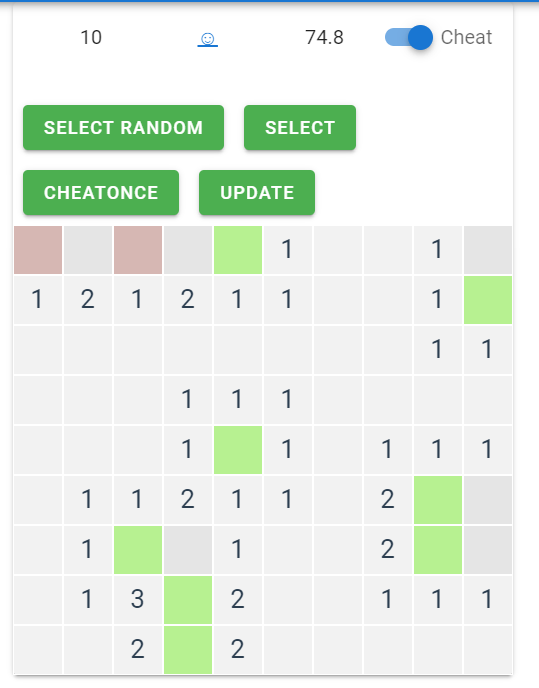
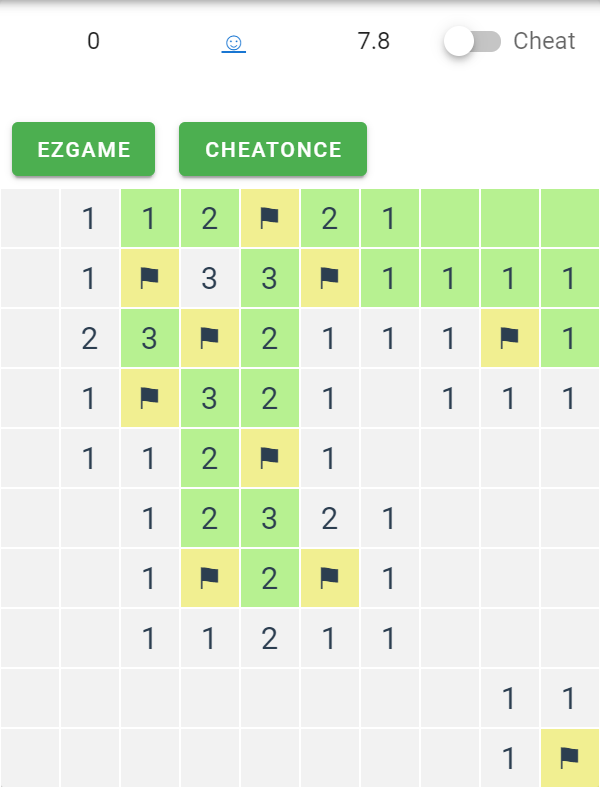
donee

diff --git a/mindswooper/src/components/MinesweeperGame.vue b/mindswooper/src/components/MinesweeperGame.vue
@@ -17,21 +17,31 @@
         v-model="cheat"
       ></v-switch>
     </div>
-    <v-btn color="success" class="ma-2" @click="select()"
+    <!-- <v-btn color="success" class="ma-2" @click="select()"
       >select next targets</v-btn
-    >
-    <v-btn color="success" class="ma-2" @click="selectNext = true"
-      >select one cell</v-btn
-    >
+    > -->
+    <v-row align="center">
+      <v-col class="d-flex" cols="12" sm="6">
+        <v-btn color="success" class="ma-2" @click="EzGame()">EZGame</v-btn>
+      </v-col>
+      <v-col>
+        <v-select
+          :items="[0, 1, 10, 100]"
+          v-model="delay"
+          label="Delay"
+        ></v-select>
+      </v-col>
+    </v-row>
+
     <v-btn
       color="success"
       class="ma-2"
       @click="cheatOnce(grid.find((cell) => cell.selected))"
       >cheatOnce</v-btn
     >
-    <v-btn color="success" class="ma-2" @click="updateAllCells()"
+    <!-- <v-btn color="success" class="ma-2" @click="updateAllCells()"
       >update all</v-btn
-    >
+    > -->
 
     <div class="minesweeper-grid" :style="getGridStyle()">
       <minesweeper-cell
@@ -80,11 +90,11 @@ export default Vue.extend({
     },
     rows: {
       type: Number,
-      default: 9,
+      default: 30,
     },
     bombs: {
       type: Number,
-      default: 10,
+      default: 55,
     },
   },
   data() {
@@ -98,6 +108,7 @@ export default Vue.extend({
       selected: [] as number[][],
       targetI: -1,
       flagTarget: false,
+      delay: 0,
     };
   },
   mounted() {
@@ -112,7 +123,61 @@ export default Vue.extend({
     },
   },
   methods: {
+    wait(ms: number) {
+      return new Promise((resolve) => setTimeout(resolve, ms));
+    },
+    async EzGame() {
+      let orig: cell[] = [];
+      while (!this.won) {
+        // find good game
+        console.log("Starting...");
+        this.initGrid();
+        orig = [];
+        let moves = 0;
+        this.finished = false;
+        // debugger
+
+        while (!this.finished) {
+          // find good moves
+          if (this.checkLost()) break;
+          this.cheatOnce();
+          if (this.selected.length && !orig.length) {
+            this.grid.forEach((cell: cell) => {
+              orig.push({
+                hasBomb: cell.hasBomb,
+                bombCount: cell.bombCount,
+                isOpen: cell.isOpen,
+                openNear: cell.openNear,
+                hasFlag: cell.hasFlag,
+                flaggedNear: cell.flaggedNear,
+                neighborhood: cell.neighborhood,
+                cheat: cell.cheat,
+                selected: cell.selected,
+                hiddenNeighborhood: cell.hiddenNeighborhood,
+                Index: cell.Index,
+              });
+            });
+          }
+          moves++;
+          if (this.delay) await this.wait(this.delay);
+        }
+        console.log("Got Finished game in", moves);
+      }
+
+      console.log("Finished");
+      console.log("Setting board");
+      // console.log(orig, this.grid, orig == this.grid)
+      this.grid = orig;
+
+      // ------------------------------------------------
+      // Reset
+      this.grid.forEach((cell: cell) => (cell.selected = 0));
+      this.finished = false;
+      this.won = false;
+    },
     updateAllCells() {
+      // console.log(this.selected, this.targetI);
+
       this.grid.forEach((cell: cell, i) => {
         let n = 0;
         this.getNeighborhood(cell).forEach((i) => {
@@ -159,9 +224,9 @@ export default Vue.extend({
         }
       });
 
-      // if (this.selected.length == 0){
-      //   this.pickRandom()
-      // }
+      if (this.selected.length == 0) {
+        this.pickRandom();
+      }
 
       // console.log(this.selected);
 
@@ -207,7 +272,7 @@ export default Vue.extend({
         let cell = this.grid[ii];
         // console.log("going through:", i, "neighbour", ii, "Open:", cell.isOpen, "Selected", cell.selected)
         if (!cell.isOpen && !cell.selected) {
-          this.selected.push([i, oneIfBomb]);
+          this.selected.push([ii, oneIfBomb]);
           cell.selected = 1 + oneIfBomb;
         }
       });
@@ -219,41 +284,45 @@ export default Vue.extend({
       });
     },
     cheatOnce() {
-      console.log("First", this.selected, this.targetI);
+      if (this.finished) {
+        console.warn("Alredy Finished!");
+        return -1;
+      }
+      // console.log("First", this.selected, this.targetI);
+      // -1 = no target
 
       if (this.targetI != -1) {
         let cell: cell = this.grid[this.targetI];
-        console.log("Goin for", cell, this.flagTarget)
+        // console.log("Goin for", cell, this.flagTarget);
 
         if (this.flagTarget) {
           if (!cell.hasFlag) {
-
-            console.log("addFlag", cell)
+            // console.log("addFlag", cell);
             this.addFlag(cell);
           }
         } else {
           if (cell.hasFlag) {
             console.error("Flag bad", cell);
           } else {
-            console.log("clickCell", cell)
-            this.clickCell(cell, cell.Index, true);
+            // console.log("clickCell", cell);
+            this.clickCell(cell, cell.Index, false);
           }
         }
       }
 
       this.updateAllCells();
 
-      console.log("Last", this.selected, this.targetI);
       this.selected = this.selected.filter(
-        (i: number[]) => this.grid[i[0]].isOpen
+        (i: number[]) => !this.grid[i[0]].isOpen && !this.grid[i[0]].hasFlag
       );
 
       if (this.selected.length) {
         this.targetI = this.selected[0][0];
-        this.flagTarget = !this.selected[0][1];
+        this.flagTarget = Boolean(this.selected[0][1]);
       } else {
         this.select();
       }
+      // console.log("Last", this.selected, this.targetI);
 
       // this.setNeighborhood(cell, cell.Index);
       // console.log("cheat cell:", cell);
@@ -480,6 +549,11 @@ export default Vue.extend({
         return false;
       }
       return i + (y * cols + x);
+    },
+    checkLost() {
+      return Boolean(
+        this.grid.some((cell: cell) => cell.isOpen && cell.hasBomb)
+      );
     },
   },
   watch: {

diff --git a/mindswooper/README.md b/mindswooper/README.md
@@ -1,6 +1,6 @@
 # mindswooper
 
-<img src=bilder/swooper.png>
+<img src=bilder/swooper.png width=400>
 
 ## Mind swooper 
 är en minesweeper spel med lite ai funktioner.
@@ -13,6 +13,7 @@ Och senare applicera ai för svårare strategier som 50/50 tilfällen med flera 
 I koden finns bara den första delen, men möjlighet för andra också.
 
 
+Man kan också klicka på knappen "EZ game" för att slumpmässnigt generera ett bräde som man lösas utan svåra strategier
 
 ## Starta
 ```
